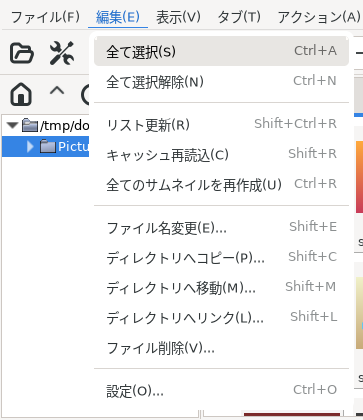
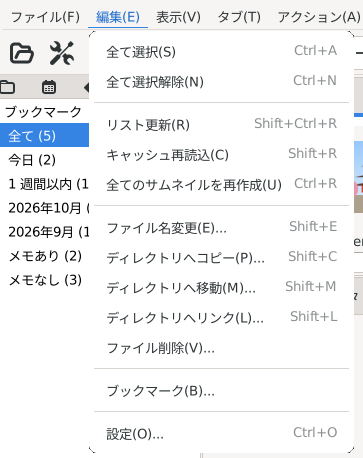
Manual, NEWS and README: bookmarks
2.8 Bookmarks (with a picture of the tab and the note), the Bookmark
items of the Edit menus and the right button menus, and the pictures of
the Edit menus taken again.

diff --git a/doc/en/02.html b/doc/en/02.html
@@ -212,6 +212,41 @@ At the left, the full path of the focused image; in the middle, its position ("1
 <li><p class="para">"Open the Folder" in the right button menus of the thumbnail view and the image view opens the folder of the image.</p></li>
 </ul></div>
 </div>
+<div class="sect2">
+<div class="titlepage"><div><h3 class="title">
+<a name="02-08"></a>2.8. Bookmarks</h3></div></div>
+<p class="para">
+Images can be bookmarked to look at them again later, in the indexed directories or not. The bookmarks are kept in ~/.gimv/bookmarks (apart from the index database: making the index again keeps them).
+</p>
+<div class="figure"><img src="images/bookmark.png" width="700" height="450" alt="The Bookmarks tab and a note">
+<p class="caption">The Bookmarks tab and a note</p></div>
+<div class="variablelist"><dl>
+<dt><span class="term"><a name="bookmark_add"></a>Bookmarking</span></dt>
+<dd><p class="para">
+Select images in the thumbnail view (one or more) and choose [Edit | Bookmark...] or "Bookmark..." in the right button menu; in the image window [Edit | Bookmark...], in the preview "Bookmark..." in the right button menu. The images are bookmarked at once, and a field for a note comes up. It can be closed with Escape without writing anything (a note can be written later). Enter, or a click elsewhere, keeps the note written. Chosen on a bookmarked image, it changes the note, or "Remove" takes the bookmark off.
+</p></dd>
+<dt><span class="term"><a name="bookmark_key"></a>Key</span></dt>
+<dd><p class="para">
+No key is given by default. With lines like these in ~/.gimv/keyaccelrc (Ctrl+K here; a line starting with ";" does nothing), the key bookmarks from the next start.
+</p>
+<pre class="programlisting">(gtk_accel_path "&lt;ThumbWinMainMenu&gt;/Edit/Bookmark..." "&lt;Control&gt;k")
+(gtk_accel_path "&lt;ImageWinMainMenu&gt;/Edit/Bookmark..." "&lt;Control&gt;k")
+(gtk_accel_path "&lt;ThumbWinPreviewPop&gt;/Bookmark..." "&lt;Control&gt;k")</pre>
+</dd>
+<dt><span class="term"><a name="bookmark_tab"></a>Bookmarks tab</span></dt>
+<dd><p class="para">
+The "Bookmarks" tab (a star) next to the directory view lists the bookmarks by the day they were added (Today, Yesterday, This Week, then by month), and "All", "With a Note", "Without a Note", with their numbers. A click on a row opens them in the result tab, the newest first (the file names only, as the index tabs). Choosing a sort in the menu sorts them so.
+</p></dd>
+<dt><span class="term"><a name="bookmark_note"></a>The notes</span></dt>
+<dd><p class="para">
+The tooltip of the thumbnail of a bookmarked image starts with "&#9733; the note" ("&#9733; Bookmarked" without a note).
+</p></dd>
+<dt><span class="term"><a name="bookmark_move"></a>Moved and missing images</span></dt>
+<dd><p class="para">
+An image renamed or moved with GImageView keeps its bookmark. In the indexed directories, the bookmarks also follow images and folders moved or renamed by other programs. Other images not found any more are counted in "Not Found" of the tab.
+</p></dd>
+</dl></div>
+</div>
 </div>
 <div class="navfooter">
 <hr>

diff --git a/doc/en/03.html b/doc/en/03.html
@@ -115,9 +115,9 @@ All thumbnail windows and image windows are closed.
 <div class="sect2">
 <div class="titlepage"><div><h3 class="title">
 <a name="03-02"></a>3.2. Edit</h3></div></div>
-<div class="figure"><img src="images/menu_edit.png" width="288" height="417" alt="The Edit menu of the thumbnail window (one image selected)">
+<div class="figure"><img src="images/menu_edit.png" width="288" height="452" alt="The Edit menu of the thumbnail window (one image selected)">
 <p class="caption">The Edit menu of the thumbnail window (one image selected)</p></div>
-<div class="figure"><img src="images/menu_i_edit.png" width="261" height="181" alt="The Edit menu of the image window">
+<div class="figure"><img src="images/menu_i_edit.png" width="390" height="234" alt="The Edit menu of the image window">
 <p class="caption">The Edit menu of the image window</p></div>
 <div class="variablelist"><dl>
 <dt><span class="term"><a name="select_all"></a>Select All [Ctrl + A]</span></dt>
@@ -214,6 +214,12 @@ This cannot be undone.  Answer the confirmation dialog carefully.
 <dd>
 <p class="para">
 <span class="emphasis"><i>Image window only</i></span>.  Creates the thumbnail of the image shown, in the format of "Cache type for saving" in [Preferences | Thumbnail Cache].
+</p>
+</dd>
+<dt><span class="term"><a name="bookmark_menu"></a>Bookmark...</span></dt>
+<dd>
+<p class="para">
+Bookmarks the selected images (in the image window, the image shown) and shows a field for a note (<a href="02.html#02-08">2.8</a>). No key by default.
 </p>
 </dd>
 <dt><span class="term"><a name="options"></a>Options... [Ctrl + O]</span></dt>

diff --git a/doc/ja/05.html b/doc/ja/05.html
@@ -120,6 +120,12 @@ EXIF 対応で作成した場合にある項目です。画像の EXIF データ
 画像の索引が使える場合にある項目です。選んだ画像のタグを編集します (<a href="02.html#index_tags">2.2</a>)。
 </p>
 </dd>
+<dt><span class="term"><a name="bookmark_mouse_menu"></a>ブックマーク</span></dt>
+<dd>
+<p class="para">
+選んだ画像をブックマークし、メモの欄を出します (<a href="02.html#02-08">2.8</a>)。
+</p>
+</dd>
 <dt><span class="term"><a name="file_operation_mouse_menu"></a>ファイル名変更 / ディレクトリへコピー / ディレクトリへ移動 / ディレクトリへリンク / ファイル削除</span></dt>
 <dd>
 <p class="para">
@@ -228,6 +234,7 @@ GTK 4 版では、次の項目を加えています (プレビューのマウス
 <li><p class="para">画像をクリップボードにコピー (Shift+Ctrl+C) : 表示している画像をクリップボードにコピーします。</p></li>
 <li><p class="para">顔の編集 (P) : 顔パネルを開き、画像に写っている顔に名前を付けます (<a href="02.html#face_panel">2.3</a>)。顔の認識が使える場合だけの項目です。</p></li>
 <li><p class="para">元のフォルダを開く : 画像のあるフォルダをサムネイルウィンドウで開きます。</p></li>
+<li><p class="para">ブックマーク : 表示している画像をブックマークします (<a href="02.html#02-08">2.8</a>)。</p></li>
 </ul></div>
 </div>
 </div>

diff --git a/doc/en/05.html b/doc/en/05.html
@@ -120,6 +120,12 @@ Opens the folder of the image in the thumbnail window, with the image selected. 
 Only with the image index. Edits the tags of the images selected (<a href="02.html#index_tags">2.2</a>).
 </p>
 </dd>
+<dt><span class="term"><a name="bookmark_mouse_menu"></a>Bookmark...</span></dt>
+<dd>
+<p class="para">
+Bookmarks the selected images and shows a field for a note (<a href="02.html#02-08">2.8</a>).
+</p>
+</dd>
 <dt><span class="term"><a name="file_operation_mouse_menu"></a>Rename... / Copy Files To... / Move Files To... / Link Files To... / Remove Files...</span></dt>
 <dd>
 <p class="para">
@@ -228,6 +234,7 @@ The GTK 4 port adds these items (also in the right button menu of the preview):
 <li><p class="para">Copy the Image to the Clipboard (Shift+Ctrl+C) : copies the image shown to the clipboard.</p></li>
 <li><p class="para">Edit Faces (People) (P) : opens the faces panel, to name the faces in the image (<a href="02.html#face_panel">2.3</a>). Only with face recognition.</p></li>
 <li><p class="para">Open the Folder : opens the folder of the image in the thumbnail window.</p></li>
+<li><p class="para">Bookmark... : bookmarks the image shown (<a href="02.html#02-08">2.8</a>).</p></li>
 </ul></div>
 </div>
 </div>

diff --git a/doc/ja/gimv_history.html b/doc/ja/gimv_history.html
@@ -28,7 +28,13 @@
 <div class="titlepage"><div><h2 class="title" style="clear: both">
 <a name="gimv_history"></a>10. GImageView 更新履歴</h2></div></div>
 <pre class="screen">
-2026-11-04: Version 0.2.27+gtk4 (GTK 4 版) 2026-09-26 以降の変更
+2026-11-06: Version 0.2.27+gtk4 (GTK 4 版) 2026-09-26 以降の変更
+    o 画像のブックマーク (~/.gimv/bookmarks．索引の対象外の画像にも)．
+      [編集 | ブックマーク...] と右クリックのメニュー (標準ではキーなし．
+      ~/.gimv/keyaccelrc で設定可)，任意のメモ，「ブックマーク」タブ (付けた
+      日ごと，メモのあり・なし)，ツールチップにメモ．画像の移動・名前変更に
+      ついていく
+    o スライドショーで 2 枚目以降の画像が描かれなかったのを修正
     o プログラム中の英語のメッセージやメニューの綴り・言い回しを修正
       (Faild -&gt; Failed，Tool -&gt; Tools など)．名前が変わったメニュー項目の
       ~/.gimv/keyaccelrc のキー設定は自動で引き継ぐ

diff --git a/doc/en/gimv_history.html b/doc/en/gimv_history.html
@@ -28,7 +28,13 @@
 <div class="titlepage"><div><h2 class="title" style="clear: both">
 <a name="gimv_history"></a>10. GImageView History</h2></div></div>
 <pre class="screen">
-2026-11-04: Version 0.2.27+gtk4 (GTK 4 version), changes since 2026-09-26
+2026-11-06: Version 0.2.27+gtk4 (GTK 4 version), changes since 2026-09-26
+    o Bookmarks of images (~/.gimv/bookmarks), in the index or not:
+      [Edit | Bookmark...] and the right button menus (no key by default,
+      one can be given in ~/.gimv/keyaccelrc), an optional note, the
+      "Bookmarks" tab (by the day added, with or without a note), the
+      note in the tooltip; they follow the images moved or renamed.
+    o Slide show: the images after the first one are drawn again.
     o Corrected spelling and wording of the English messages and menus
       (Faild -&gt; Failed, Buttton, Thumnail, Tool -&gt; Tools, ...); old key
       bindings in ~/.gimv/keyaccelrc for renamed menu items are migrated.

diff --git a/doc/ja/changelog.html b/doc/ja/changelog.html
@@ -21,7 +21,8 @@
 <hr>
 </div>
 <div class="revhistory">
-<b>改訂履歴</b><pre>* 2026-11-04 shitamo<br>- 画像の索引，顔と人物，画像の検索，一覧の検索 (Ctrl+F)，サムネイルの節を追加
+<b>改訂履歴</b><pre>* 2026-11-06 shitamo<br>- 2.8 ブックマークを追加．[編集] メニューの画像を更新</pre>
+<pre>* 2026-11-04 shitamo<br>- 画像の索引，顔と人物，画像の検索，一覧の検索 (Ctrl+F)，サムネイルの節を追加
 - メニュー，マウスメニュー，設定，キーバインドをこの版に合わせて更新
 - 設定の索引のページの画像を追加．FAQ のステータスバーの説明と更新履歴を更新</pre>
 <pre>* 2026-10-07 shitamo<br>- GImageView 0.2.27+gtk4 (GTK 4 版) に合わせて更新．画面の画像を追加</pre>

diff --git a/doc/en/changelog.html b/doc/en/changelog.html
@@ -21,7 +21,8 @@
 <hr>
 </div>
 <div class="revhistory">
-<b>Revision History</b><pre>* 2026-11-04 shitamo<br>- added the sections on the image index, faces and people, searching images, searching lists (Ctrl+F) and thumbnails
+<b>Revision History</b><pre>* 2026-11-06 shitamo<br>- added 2.8 Bookmarks; the pictures of the Edit menus updated</pre>
+<pre>* 2026-11-04 shitamo<br>- added the sections on the image index, faces and people, searching images, searching lists (Ctrl+F) and thumbnails
 - menus, mouse menus, preferences and key bindings updated for this version
 - pictures of the index pages of the preferences; the status bar in the FAQ and the history updated</pre>
 <pre>* 2026-10-07 shitamo<br>- for GImageView 0.2.27+gtk4 (the GTK 4 port), with screenshots; English translation</pre>

diff --git a/doc/ja/index.html b/doc/ja/index.html
@@ -65,6 +65,7 @@ GImageView User's Manual for GImageView version 0.2.27+gtk4 (GTK 4 版)
 </dt><dt>2.5. <a href="02.html#02-05">一覧の操作</a>
 </dt><dt>2.6. <a href="02.html#02-06">サムネイル</a>
 </dt><dt>2.7. <a href="02.html#02-07">その他</a>
+</dt><dt>2.8. <a href="02.html#02-08">ブックマーク</a>
 </dt></dl></dd>
 <dt>3. <a href="03.html">メニューバー</a>
 </dt>

diff --git a/doc/en/index.html b/doc/en/index.html
@@ -65,6 +65,7 @@ GImageView User's Manual for GImageView version 0.2.27+gtk4 (GTK 4 version)
 </dt><dt>2.5. <a href="02.html#02-05">Lists</a>
 </dt><dt>2.6. <a href="02.html#02-06">Thumbnails</a>
 </dt><dt>2.7. <a href="02.html#02-07">Other features</a>
+</dt><dt>2.8. <a href="02.html#02-08">Bookmarks</a>
 </dt></dl></dd>
 <dt>3. <a href="03.html">Menu Bar</a>
 </dt>
